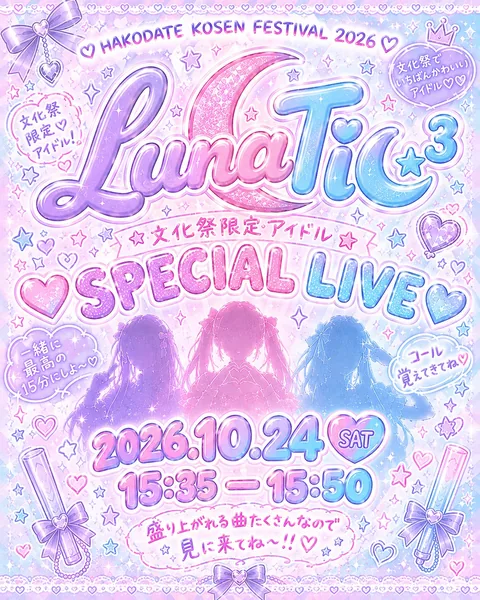
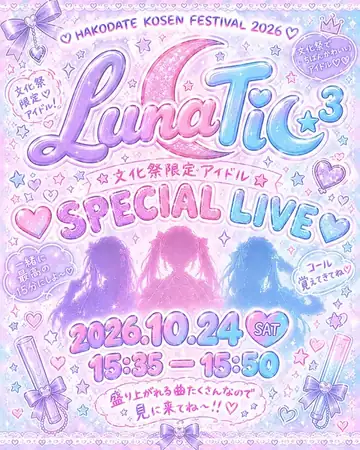
画像を軽く：チラシ・パンフレットの縮小版、出演者の写真の再圧縮、拡大時に大きい画像へ切り替え

diff --git a/site/brochure.html b/site/brochure.html
@@ -38,30 +38,30 @@
       <p class="lead">会場で配る、A5・24ページのパンフレットです。ページをタップすると大きくなり、ピンチで拡大して、細かい文字も読めます。</p>
       <nav class="bro-chips" id="bro-chips" aria-label="ページへジャンプ"><a href="#sec-2" data-sec="2">案内</a><a href="#sec-6" data-sec="6">マップ</a><a href="#sec-9" data-sec="9">企画</a><a href="#sec-10" data-sec="10">学科展示</a><a href="#sec-13" data-sec="13">模擬店</a><a href="#sec-18" data-sec="18">ステージ</a></nav>
       <div class="bro-list" id="bro-list">
-      <figure class="pg"><button type="button" data-i="1" aria-label="表紙を大きく見る（1ページ目）"><img src="assets/img/brochure/p01.webp" width="1405" height="1995" alt="パンフレット 1ページ目 表紙" decoding="async" fetchpriority="high"></button><figcaption>1 / 24　表紙</figcaption></figure>
-      <figure class="pg" id="sec-2"><button type="button" data-i="2" aria-label="目次を大きく見る（2ページ目）"><img src="assets/img/brochure/p02.webp" width="1405" height="1995" alt="パンフレット 2ページ目 目次" decoding="async"></button><figcaption>2 / 24　目次</figcaption></figure>
-      <figure class="pg"><button type="button" data-i="3" aria-label="ごあいさつを大きく見る（3ページ目）"><img src="assets/img/brochure/p03.webp" width="1405" height="1995" alt="パンフレット 3ページ目 ごあいさつ" decoding="async" loading="lazy"></button><figcaption>3 / 24　ごあいさつ</figcaption></figure>
-      <figure class="pg"><button type="button" data-i="4" aria-label="高専祭のテーマ「縁」を大きく見る（4ページ目）"><img src="assets/img/brochure/p04.webp" width="1405" height="1995" alt="パンフレット 4ページ目 高専祭のテーマ「縁」" decoding="async" loading="lazy"></button><figcaption>4 / 24　高専祭のテーマ「縁」</figcaption></figure>
-      <figure class="pg"><button type="button" data-i="5" aria-label="ご案内を大きく見る（5ページ目）"><img src="assets/img/brochure/p05.webp" width="1405" height="1995" alt="パンフレット 5ページ目 ご案内" decoding="async" loading="lazy"></button><figcaption>5 / 24　ご案内</figcaption></figure>
-      <figure class="pg" id="sec-6"><button type="button" data-i="6" aria-label="校内マップ（1）を大きく見る（6ページ目）"><img src="assets/img/brochure/p06.webp" width="1405" height="1995" alt="パンフレット 6ページ目 校内マップ（1）" decoding="async" loading="lazy"></button><figcaption>6 / 24　校内マップ（1）</figcaption></figure>
-      <figure class="pg"><button type="button" data-i="7" aria-label="校内マップ（2）を大きく見る（7ページ目）"><img src="assets/img/brochure/p07.webp" width="1405" height="1995" alt="パンフレット 7ページ目 校内マップ（2）" decoding="async" loading="lazy"></button><figcaption>7 / 24　校内マップ（2）</figcaption></figure>
-      <figure class="pg"><button type="button" data-i="8" aria-label="タイムテーブルを大きく見る（8ページ目）"><img src="assets/img/brochure/p08.webp" width="1405" height="1995" alt="パンフレット 8ページ目 タイムテーブル" decoding="async" loading="lazy"></button><figcaption>8 / 24　タイムテーブル</figcaption></figure>
-      <figure class="pg" id="sec-9"><button type="button" data-i="9" aria-label="学生会企画を大きく見る（9ページ目）"><img src="assets/img/brochure/p09.webp" width="1405" height="1995" alt="パンフレット 9ページ目 学生会企画" decoding="async" loading="lazy"></button><figcaption>9 / 24　学生会企画</figcaption></figure>
-      <figure class="pg" id="sec-10"><button type="button" data-i="10" aria-label="学科紹介を大きく見る（10ページ目）"><img src="assets/img/brochure/p10.webp" width="1405" height="1995" alt="パンフレット 10ページ目 学科紹介" decoding="async" loading="lazy"></button><figcaption>10 / 24　学科紹介</figcaption></figure>
-      <figure class="pg"><button type="button" data-i="11" aria-label="学科展示紹介を大きく見る（11ページ目）"><img src="assets/img/brochure/p11.webp" width="1405" height="1995" alt="パンフレット 11ページ目 学科展示紹介" decoding="async" loading="lazy"></button><figcaption>11 / 24　学科展示紹介</figcaption></figure>
-      <figure class="pg"><button type="button" data-i="12" aria-label="学科展示マップを大きく見る（12ページ目）"><img src="assets/img/brochure/p12.webp" width="1405" height="1995" alt="パンフレット 12ページ目 学科展示マップ" decoding="async" loading="lazy"></button><figcaption>12 / 24　学科展示マップ</figcaption></figure>
-      <figure class="pg" id="sec-13"><button type="button" data-i="13" aria-label="Food &amp; Drinkを大きく見る（13ページ目）"><img src="assets/img/brochure/p13.webp" width="1405" height="1995" alt="パンフレット 13ページ目 Food &amp; Drink" decoding="async" loading="lazy"></button><figcaption>13 / 24　Food &amp; Drink</figcaption></figure>
-      <figure class="pg"><button type="button" data-i="14" aria-label="Sweets &amp; Drinkを大きく見る（14ページ目）"><img src="assets/img/brochure/p14.webp" width="1405" height="1995" alt="パンフレット 14ページ目 Sweets &amp; Drink" decoding="async" loading="lazy"></button><figcaption>14 / 24　Sweets &amp; Drink</figcaption></figure>
-      <figure class="pg"><button type="button" data-i="15" aria-label="Another activityを大きく見る（15ページ目）"><img src="assets/img/brochure/p15.webp" width="1405" height="1995" alt="パンフレット 15ページ目 Another activity" decoding="async" loading="lazy"></button><figcaption>15 / 24　Another activity</figcaption></figure>
-      <figure class="pg"><button type="button" data-i="16" aria-label="模擬店マップ（1）を大きく見る（16ページ目）"><img src="assets/img/brochure/p16.webp" width="1405" height="1995" alt="パンフレット 16ページ目 模擬店マップ（1）" decoding="async" loading="lazy"></button><figcaption>16 / 24　模擬店マップ（1）</figcaption></figure>
-      <figure class="pg"><button type="button" data-i="17" aria-label="模擬店マップ（2）を大きく見る（17ページ目）"><img src="assets/img/brochure/p17.webp" width="1405" height="1995" alt="パンフレット 17ページ目 模擬店マップ（2）" decoding="async" loading="lazy"></button><figcaption>17 / 24　模擬店マップ（2）</figcaption></figure>
-      <figure class="pg" id="sec-18"><button type="button" data-i="18" aria-label="ステージパフォーマンスを大きく見る（18ページ目）"><img src="assets/img/brochure/p18.webp" width="1405" height="1995" alt="パンフレット 18ページ目 ステージパフォーマンス" decoding="async" loading="lazy"></button><figcaption>18 / 24　ステージパフォーマンス</figcaption></figure>
-      <figure class="pg"><button type="button" data-i="19" aria-label="ステージ タイムテーブルを大きく見る（19ページ目）"><img src="assets/img/brochure/p19.webp" width="1405" height="1995" alt="パンフレット 19ページ目 ステージ タイムテーブル" decoding="async" loading="lazy"></button><figcaption>19 / 24　ステージ タイムテーブル</figcaption></figure>
-      <figure class="pg"><button type="button" data-i="20" aria-label="バンド紹介 10月24日（1）を大きく見る（20ページ目）"><img src="assets/img/brochure/p20.webp" width="1405" height="1995" alt="パンフレット 20ページ目 バンド紹介 10月24日（1）" decoding="async" loading="lazy"></button><figcaption>20 / 24　バンド紹介 10月24日（1）</figcaption></figure>
-      <figure class="pg"><button type="button" data-i="21" aria-label="バンド紹介 10月24日（2）を大きく見る（21ページ目）"><img src="assets/img/brochure/p21.webp" width="1405" height="1995" alt="パンフレット 21ページ目 バンド紹介 10月24日（2）" decoding="async" loading="lazy"></button><figcaption>21 / 24　バンド紹介 10月24日（2）</figcaption></figure>
-      <figure class="pg"><button type="button" data-i="22" aria-label="バンド紹介 10月25日（1）を大きく見る（22ページ目）"><img src="assets/img/brochure/p22.webp" width="1405" height="1995" alt="パンフレット 22ページ目 バンド紹介 10月25日（1）" decoding="async" loading="lazy"></button><figcaption>22 / 24　バンド紹介 10月25日（1）</figcaption></figure>
-      <figure class="pg"><button type="button" data-i="23" aria-label="バンド紹介 10月25日（2）を大きく見る（23ページ目）"><img src="assets/img/brochure/p23.webp" width="1405" height="1995" alt="パンフレット 23ページ目 バンド紹介 10月25日（2）" decoding="async" loading="lazy"></button><figcaption>23 / 24　バンド紹介 10月25日（2）</figcaption></figure>
-      <figure class="pg"><button type="button" data-i="24" aria-label="インフォメーションを大きく見る（24ページ目）"><img src="assets/img/brochure/p24.webp" width="1405" height="1995" alt="パンフレット 24ページ目 インフォメーション" decoding="async" loading="lazy"></button><figcaption>24 / 24　インフォメーション</figcaption></figure>
+      <figure class="pg"><button type="button" data-i="1" aria-label="表紙を大きく見る（1ページ目）"><img src="assets/img/brochure/p01-s.webp" width="1405" height="1995" alt="パンフレット 1ページ目 表紙" decoding="async" fetchpriority="high"></button><figcaption>1 / 24　表紙</figcaption></figure>
+      <figure class="pg" id="sec-2"><button type="button" data-i="2" aria-label="目次を大きく見る（2ページ目）"><img src="assets/img/brochure/p02-s.webp" width="1405" height="1995" alt="パンフレット 2ページ目 目次" decoding="async"></button><figcaption>2 / 24　目次</figcaption></figure>
+      <figure class="pg"><button type="button" data-i="3" aria-label="ごあいさつを大きく見る（3ページ目）"><img src="assets/img/brochure/p03-s.webp" width="1405" height="1995" alt="パンフレット 3ページ目 ごあいさつ" decoding="async" loading="lazy"></button><figcaption>3 / 24　ごあいさつ</figcaption></figure>
+      <figure class="pg"><button type="button" data-i="4" aria-label="高専祭のテーマ「縁」を大きく見る（4ページ目）"><img src="assets/img/brochure/p04-s.webp" width="1405" height="1995" alt="パンフレット 4ページ目 高専祭のテーマ「縁」" decoding="async" loading="lazy"></button><figcaption>4 / 24　高専祭のテーマ「縁」</figcaption></figure>
+      <figure class="pg"><button type="button" data-i="5" aria-label="ご案内を大きく見る（5ページ目）"><img src="assets/img/brochure/p05-s.webp" width="1405" height="1995" alt="パンフレット 5ページ目 ご案内" decoding="async" loading="lazy"></button><figcaption>5 / 24　ご案内</figcaption></figure>
+      <figure class="pg" id="sec-6"><button type="button" data-i="6" aria-label="校内マップ（1）を大きく見る（6ページ目）"><img src="assets/img/brochure/p06-s.webp" width="1405" height="1995" alt="パンフレット 6ページ目 校内マップ（1）" decoding="async" loading="lazy"></button><figcaption>6 / 24　校内マップ（1）</figcaption></figure>
+      <figure class="pg"><button type="button" data-i="7" aria-label="校内マップ（2）を大きく見る（7ページ目）"><img src="assets/img/brochure/p07-s.webp" width="1405" height="1995" alt="パンフレット 7ページ目 校内マップ（2）" decoding="async" loading="lazy"></button><figcaption>7 / 24　校内マップ（2）</figcaption></figure>
+      <figure class="pg"><button type="button" data-i="8" aria-label="タイムテーブルを大きく見る（8ページ目）"><img src="assets/img/brochure/p08-s.webp" width="1405" height="1995" alt="パンフレット 8ページ目 タイムテーブル" decoding="async" loading="lazy"></button><figcaption>8 / 24　タイムテーブル</figcaption></figure>
+      <figure class="pg" id="sec-9"><button type="button" data-i="9" aria-label="学生会企画を大きく見る（9ページ目）"><img src="assets/img/brochure/p09-s.webp" width="1405" height="1995" alt="パンフレット 9ページ目 学生会企画" decoding="async" loading="lazy"></button><figcaption>9 / 24　学生会企画</figcaption></figure>
+      <figure class="pg" id="sec-10"><button type="button" data-i="10" aria-label="学科紹介を大きく見る（10ページ目）"><img src="assets/img/brochure/p10-s.webp" width="1405" height="1995" alt="パンフレット 10ページ目 学科紹介" decoding="async" loading="lazy"></button><figcaption>10 / 24　学科紹介</figcaption></figure>
+      <figure class="pg"><button type="button" data-i="11" aria-label="学科展示紹介を大きく見る（11ページ目）"><img src="assets/img/brochure/p11-s.webp" width="1405" height="1995" alt="パンフレット 11ページ目 学科展示紹介" decoding="async" loading="lazy"></button><figcaption>11 / 24　学科展示紹介</figcaption></figure>
+      <figure class="pg"><button type="button" data-i="12" aria-label="学科展示マップを大きく見る（12ページ目）"><img src="assets/img/brochure/p12-s.webp" width="1405" height="1995" alt="パンフレット 12ページ目 学科展示マップ" decoding="async" loading="lazy"></button><figcaption>12 / 24　学科展示マップ</figcaption></figure>
+      <figure class="pg" id="sec-13"><button type="button" data-i="13" aria-label="Food &amp; Drinkを大きく見る（13ページ目）"><img src="assets/img/brochure/p13-s.webp" width="1405" height="1995" alt="パンフレット 13ページ目 Food &amp; Drink" decoding="async" loading="lazy"></button><figcaption>13 / 24　Food &amp; Drink</figcaption></figure>
+      <figure class="pg"><button type="button" data-i="14" aria-label="Sweets &amp; Drinkを大きく見る（14ページ目）"><img src="assets/img/brochure/p14-s.webp" width="1405" height="1995" alt="パンフレット 14ページ目 Sweets &amp; Drink" decoding="async" loading="lazy"></button><figcaption>14 / 24　Sweets &amp; Drink</figcaption></figure>
+      <figure class="pg"><button type="button" data-i="15" aria-label="Another activityを大きく見る（15ページ目）"><img src="assets/img/brochure/p15-s.webp" width="1405" height="1995" alt="パンフレット 15ページ目 Another activity" decoding="async" loading="lazy"></button><figcaption>15 / 24　Another activity</figcaption></figure>
+      <figure class="pg"><button type="button" data-i="16" aria-label="模擬店マップ（1）を大きく見る（16ページ目）"><img src="assets/img/brochure/p16-s.webp" width="1405" height="1995" alt="パンフレット 16ページ目 模擬店マップ（1）" decoding="async" loading="lazy"></button><figcaption>16 / 24　模擬店マップ（1）</figcaption></figure>
+      <figure class="pg"><button type="button" data-i="17" aria-label="模擬店マップ（2）を大きく見る（17ページ目）"><img src="assets/img/brochure/p17-s.webp" width="1405" height="1995" alt="パンフレット 17ページ目 模擬店マップ（2）" decoding="async" loading="lazy"></button><figcaption>17 / 24　模擬店マップ（2）</figcaption></figure>
+      <figure class="pg" id="sec-18"><button type="button" data-i="18" aria-label="ステージパフォーマンスを大きく見る（18ページ目）"><img src="assets/img/brochure/p18-s.webp" width="1405" height="1995" alt="パンフレット 18ページ目 ステージパフォーマンス" decoding="async" loading="lazy"></button><figcaption>18 / 24　ステージパフォーマンス</figcaption></figure>
+      <figure class="pg"><button type="button" data-i="19" aria-label="ステージ タイムテーブルを大きく見る（19ページ目）"><img src="assets/img/brochure/p19-s.webp" width="1405" height="1995" alt="パンフレット 19ページ目 ステージ タイムテーブル" decoding="async" loading="lazy"></button><figcaption>19 / 24　ステージ タイムテーブル</figcaption></figure>
+      <figure class="pg"><button type="button" data-i="20" aria-label="バンド紹介 10月24日（1）を大きく見る（20ページ目）"><img src="assets/img/brochure/p20-s.webp" width="1405" height="1995" alt="パンフレット 20ページ目 バンド紹介 10月24日（1）" decoding="async" loading="lazy"></button><figcaption>20 / 24　バンド紹介 10月24日（1）</figcaption></figure>
+      <figure class="pg"><button type="button" data-i="21" aria-label="バンド紹介 10月24日（2）を大きく見る（21ページ目）"><img src="assets/img/brochure/p21-s.webp" width="1405" height="1995" alt="パンフレット 21ページ目 バンド紹介 10月24日（2）" decoding="async" loading="lazy"></button><figcaption>21 / 24　バンド紹介 10月24日（2）</figcaption></figure>
+      <figure class="pg"><button type="button" data-i="22" aria-label="バンド紹介 10月25日（1）を大きく見る（22ページ目）"><img src="assets/img/brochure/p22-s.webp" width="1405" height="1995" alt="パンフレット 22ページ目 バンド紹介 10月25日（1）" decoding="async" loading="lazy"></button><figcaption>22 / 24　バンド紹介 10月25日（1）</figcaption></figure>
+      <figure class="pg"><button type="button" data-i="23" aria-label="バンド紹介 10月25日（2）を大きく見る（23ページ目）"><img src="assets/img/brochure/p23-s.webp" width="1405" height="1995" alt="パンフレット 23ページ目 バンド紹介 10月25日（2）" decoding="async" loading="lazy"></button><figcaption>23 / 24　バンド紹介 10月25日（2）</figcaption></figure>
+      <figure class="pg"><button type="button" data-i="24" aria-label="インフォメーションを大きく見る（24ページ目）"><img src="assets/img/brochure/p24-s.webp" width="1405" height="1995" alt="パンフレット 24ページ目 インフォメーション" decoding="async" loading="lazy"></button><figcaption>24 / 24　インフォメーション</figcaption></figure>
       </div>
     </div>
   </main>

diff --git a/site/assets/zoom.js b/site/assets/zoom.js
@@ -132,10 +132,26 @@ function show(i) {
     img.src = first.src;
     fit();
     img.style.visibility = "";
+    if (it.soft && it.big) {
+      const big = new Image();
+      big.onload = () => {
+        if (token !== seq || !big.naturalWidth) return;
+        const k = NW / big.naturalWidth;
+        NW = big.naturalWidth;
+        NH = big.naturalHeight;
+        img.style.width = `${NW}px`;
+        img.style.height = `${NH}px`;
+        base *= k;
+        s *= k;
+        img.src = big.src;
+        paint();
+      };
+      big.src = it.big;
+    }
   };
   first.onerror = () => { if (token === seq && first.src !== new URL(it.src, location.href).href) { first.onerror = null; first.src = it.src; } };
-  first.src = it.big || it.src;
-  for (const j of [i - 1, i + 1]) if (items[j]) new Image().src = items[j].big || items[j].src;
+  first.src = it.soft ? it.src : it.big || it.src;
+  for (const j of [i - 1, i + 1]) if (items[j]) new Image().src = items[j].soft ? items[j].src : items[j].big || items[j].src;
 }
 
 function go(i) {
@@ -273,7 +289,9 @@ function openFrom(el) {
   const title = (el.getAttribute("alt") ?? "").replace(/の写真.*$/, "");
   const alt = title ? `${title}の写真` : "写真";
   const one = el.currentSrc || el.src;
-  const set = list.length
+  const set = el.dataset.full
+    ? [{ src: one, big: el.dataset.full, soft: true, title, alt }]
+    : list.length
     ? list.map((src, i) => ({ src, big: bigOf(src), title, alt: `${alt}（${i + 1}枚目）` }))
     : [{ src: one, big: /\/img\/stage\//.test(one) ? bigOf(one) : "", title, alt }];
   openZoom(set, 0, { opener: el.closest("button, a") ?? null });

diff --git a/site/assets/shops-board.js b/site/assets/shops-board.js
@@ -34,7 +34,7 @@ function card(s, i, copy = false) {
   return `<li${copy ? ' aria-hidden="true"' : ""}><a${copy ? ' tabindex="-1"' : ""} data-shop="${SHOPS.indexOf(s)}" class="en-card${s.flyer ? " has-flyer" : ""}" href="map.html#${esc(mapId(s))}" style="--tilt:${TILTS[i % TILTS.length]}deg; --g:${tint}; --paper:${paperOf(s.name)}">
     <i class="en-tape" aria-hidden="true"></i>
     ${s.flyer
-      ? `<img class="en-flyer" src="${esc(s.flyer)}" alt="${esc(s.name)}のチラシ" loading="lazy" decoding="async">`
+      ? `<img class="en-flyer" src="${esc(s.flyer.replace(/\.webp$/, "-s.webp"))}" data-full="${esc(s.flyer)}" alt="${esc(s.name)}のチラシ" loading="lazy" decoding="async">`
       : `<span class="en-paper">
           <b class="en-name" style="font-size:calc(${nameSize(s.name)} * var(--u))">${esc(s.name)}</b>
           <span class="en-tags">${g.map((x) => `<span style="--gc:${genreColor(x)}">${esc(x.replace(/系$/, ""))}</span>`).join("")}</span>

diff --git a/site/assets/detail.js b/site/assets/detail.js
@@ -119,7 +119,7 @@ export function openShop(s, now = Date.now()) {
   const color = (g) => GENRES.find((x) => x.id === g)?.color ?? "#4f7fa8";
   const vote = voteUrl(s, now);
   open(`
-    ${s.flyer ? `<a class="dt-flyer" href="${esc(s.flyer)}" target="_blank" rel="noopener"><img src="${esc(s.flyer)}" alt="${esc(s.name)}のチラシ"></a>` : ""}
+    ${s.flyer ? `<a class="dt-flyer" href="${esc(s.flyer)}" target="_blank" rel="noopener"><img src="${esc(s.flyer.replace(/\.webp$/, "-m.webp"))}" data-full="${esc(s.flyer)}" alt="${esc(s.name)}のチラシ" decoding="async"></a>` : ""}
     <p class="dt-tags">${genres.map((g) => `<span style="--g:${color(g)}">${esc(g)}</span>`).join("")}</p>
     <h2 class="dt-title" id="dt-title">${esc(s.name)}</h2>
     <div class="dt-live" data-live-shop="${SHOPS.indexOf(s)}"></div>

diff --git a/site/sw.js b/site/sw.js
@@ -1,4 +1,4 @@
-const VERSION = "kosen63-v620";
+const VERSION = "kosen63-v621";
 const CORE = [
   "./", "index.html", "map.html", "mido.html", "rally.html", "vote.html", "terms.html", "faq.html", "en.html", "brochure.html", "assets/brochure-page.js", "assets/brochure.css", "assets/zoom.js", "assets/zoom.css", "assets/sheet-page.js", "https://cdn.jsdelivr.net/npm/jsqr@1.4.0/dist/jsQR.js", "assets/faq-page.js", "assets/faq-chat.js", "assets/page-sheets.js", "assets/help-bar.js", "assets/scroll-lock.js", "assets/faq-text.js", "assets/faq-icons.js", "favicon.svg", "manifest.webmanifest",
   "assets/style.css", "assets/map.css", "assets/ai.css", "assets/intro.js", "assets/map-wide.js", "assets/test-loader.js",

diff --git a/site/assets/brochure-page.js b/site/assets/brochure-page.js
@@ -36,7 +36,7 @@ syncChips();
 
 const items = figs.map((f, k) => {
   const title = titleOf(k + 1);
-  return { src: srcOf(k + 1), title, alt: `パンフレット ${k + 1}ページ目 ${title}` };
+  return { src: srcOf(k + 1).replace(".webp", "-s.webp"), big: srcOf(k + 1), soft: true, title, alt: `パンフレット ${k + 1}ページ目 ${title}` };
 });
 
 document.getElementById("bro-list").addEventListener("click", (e) => {
